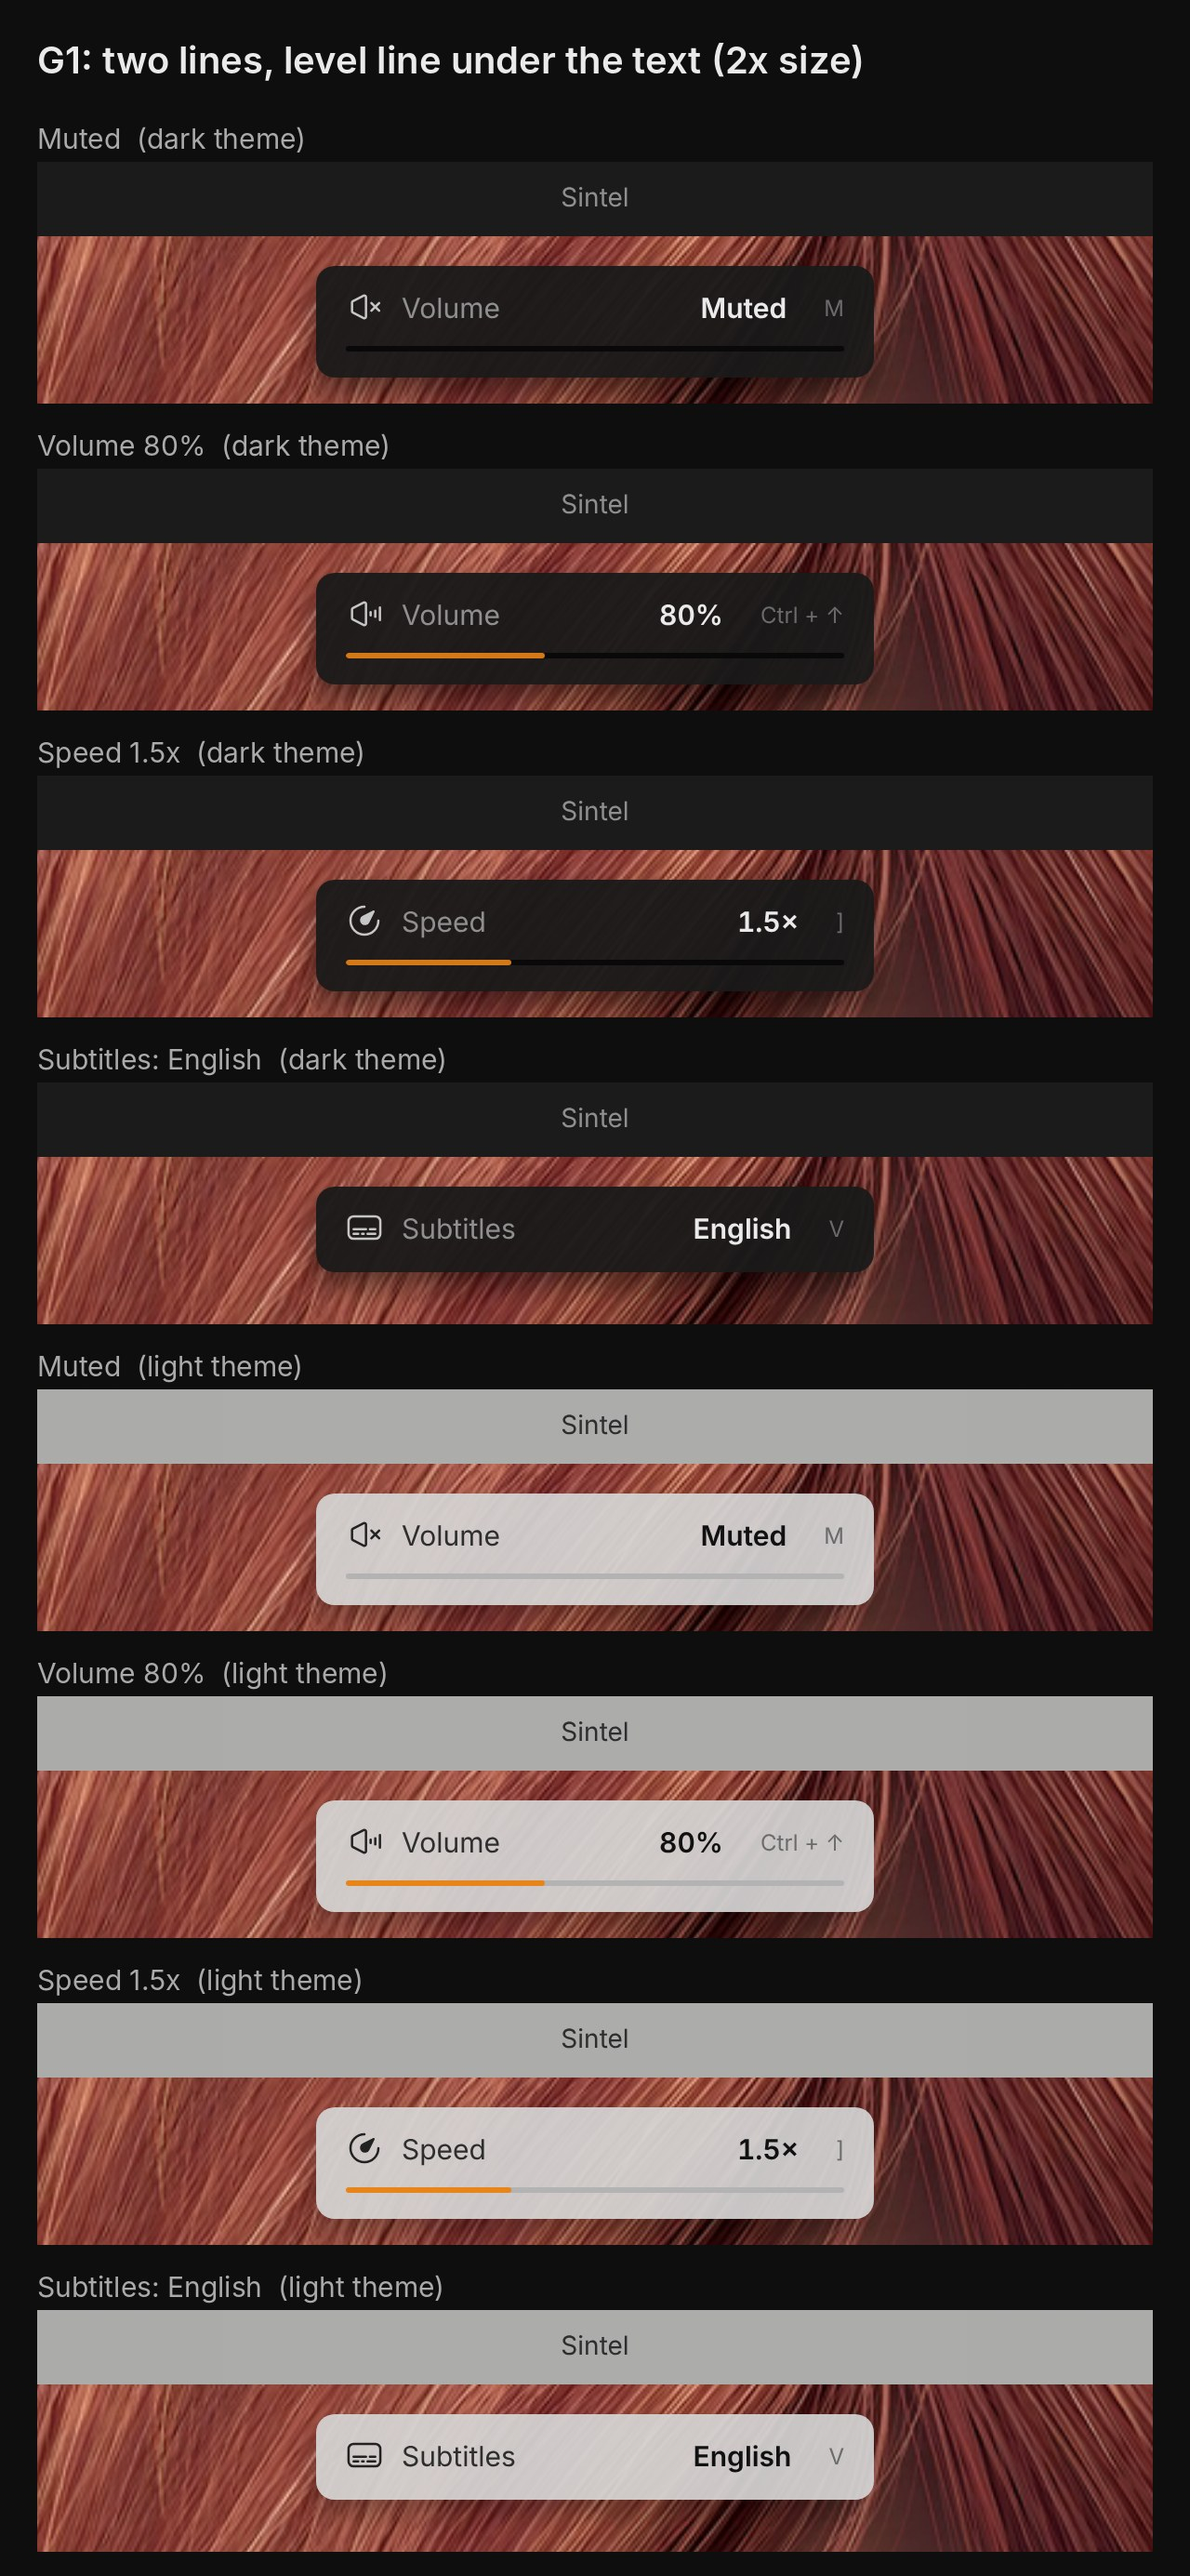
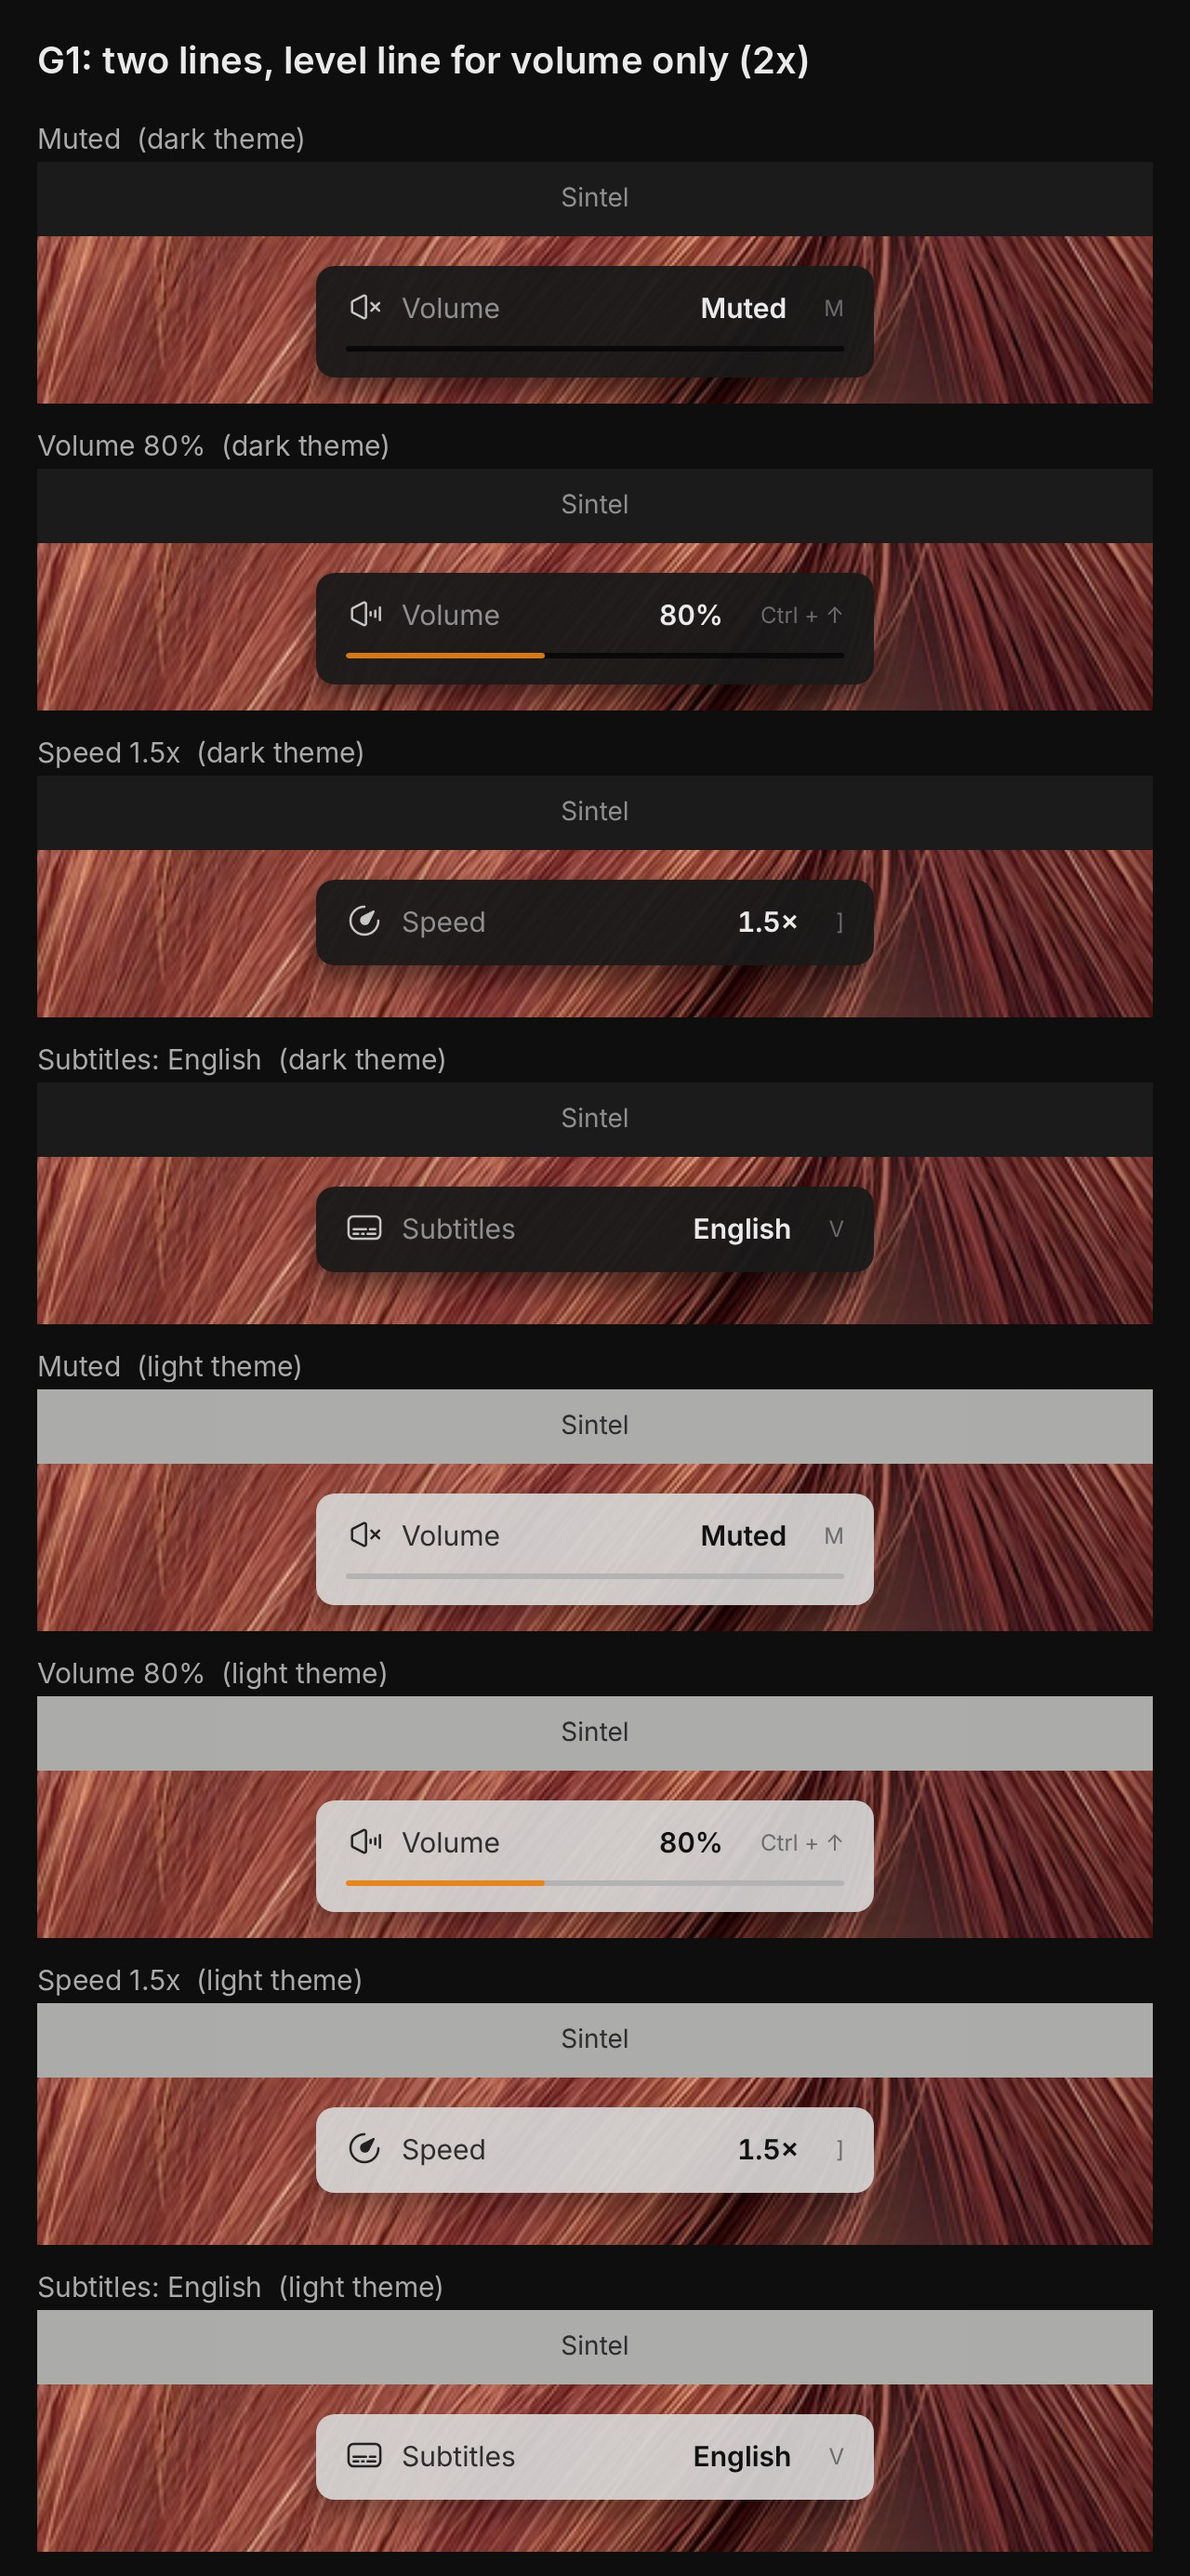
OSD round 7: the level line for volume only (speed has none) [skip ci]
Claude-Session: https://claude.ai/code/session_01Q5W7rfFwkurSTdGY9s6BBU

Changed region(s): [[0.25, 0.8383, 0.75, 0.8693], [0.25, 0.3726, 0.75, 0.4036], [0.375, 0.0, 0.7188, 0.031]]

diff --git a/redesign/mockups/osd/round4/page.html b/redesign/mockups/osd/round4/page.html
@@ -118,7 +118,7 @@ function osd(v,m,bar){
 
 
  if(v==='G1'||v==='G2'){
-   const lv=m==='vol'?0.40:m==='speed'?(1.5-0.25)/(4-0.25):m==='mute'?0:null;
+   const lv=m==='vol'?0.40:m==='mute'?0:null;
    const nm=m==='mute'?'Volume':g.label, vl=m==='mute'?'Muted':g.value;
    const row=`<div class="r">${ic(g.icon)}<span class="nm">${nm}</span><span class="vl">${vl}</span><span class="k">${g.key}</span></div>`;
    const ln=lv!=null?`<div class="ln"><i style="width:${lv*100}%"></i></div>`:'';

diff --git a/redesign/OSD_INVENTORY.md b/redesign/OSD_INVENTORY.md
@@ -266,5 +266,5 @@ Drawn by `modules/gui/qt/widgets/qml/FloatingNotification.qml` (in `Player.qml:1
 | | G1: two lines | G2: one line |
 |---|---|---|
 | **Layout** | 300 px wide: icon, name (FG/A2), value at the right (FG/1 semibold), key (FG/A3); under it a 3 px level line (track BG/B2, fill accent) | 44 px high: the same row; the 3 px level line runs along the box's bottom edge |
-| **Levels** | volume (to 200 %), speed (0.25x to 4x), muted (empty line); none for subtitles | same |
+| **Levels** | volume only (to 200 %; empty when muted): StickyGonzales, speed and the others need no line | same |
 | **Place, motion** | top center, 16 px under the top bar's place; a quarter bigger in fullscreen; in 120 ms, stays 1.5 s, out 200 ms; the line moves in place while a key is held | same |
